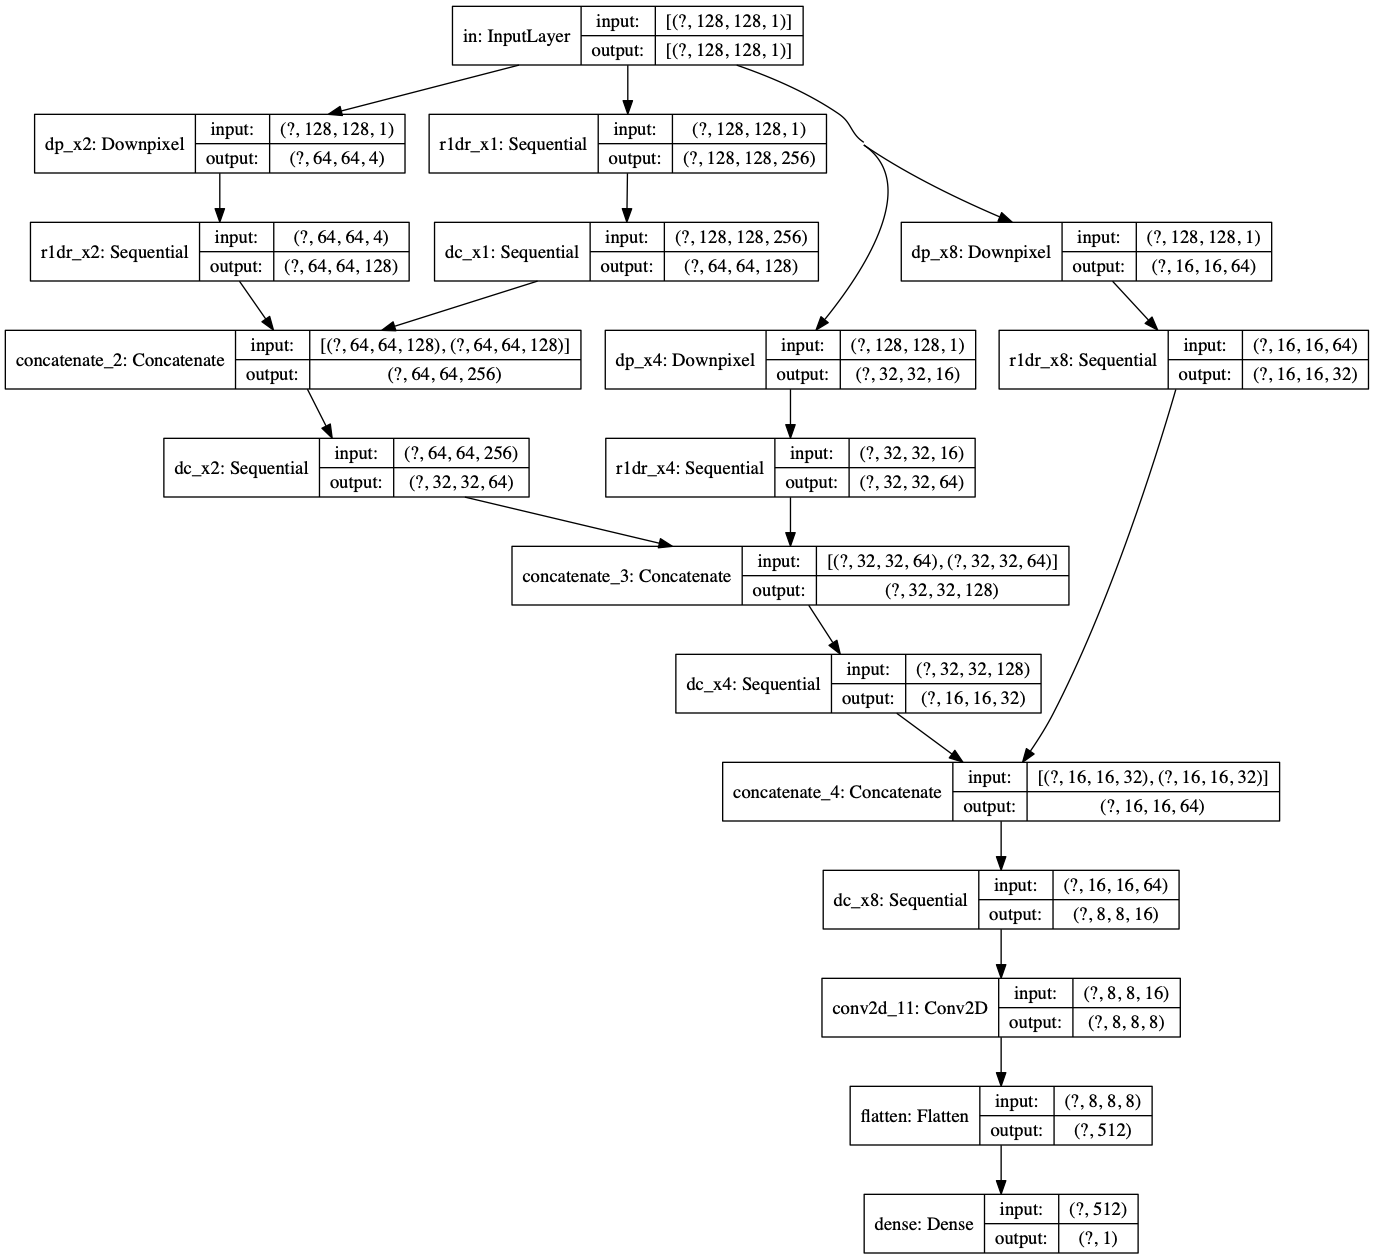
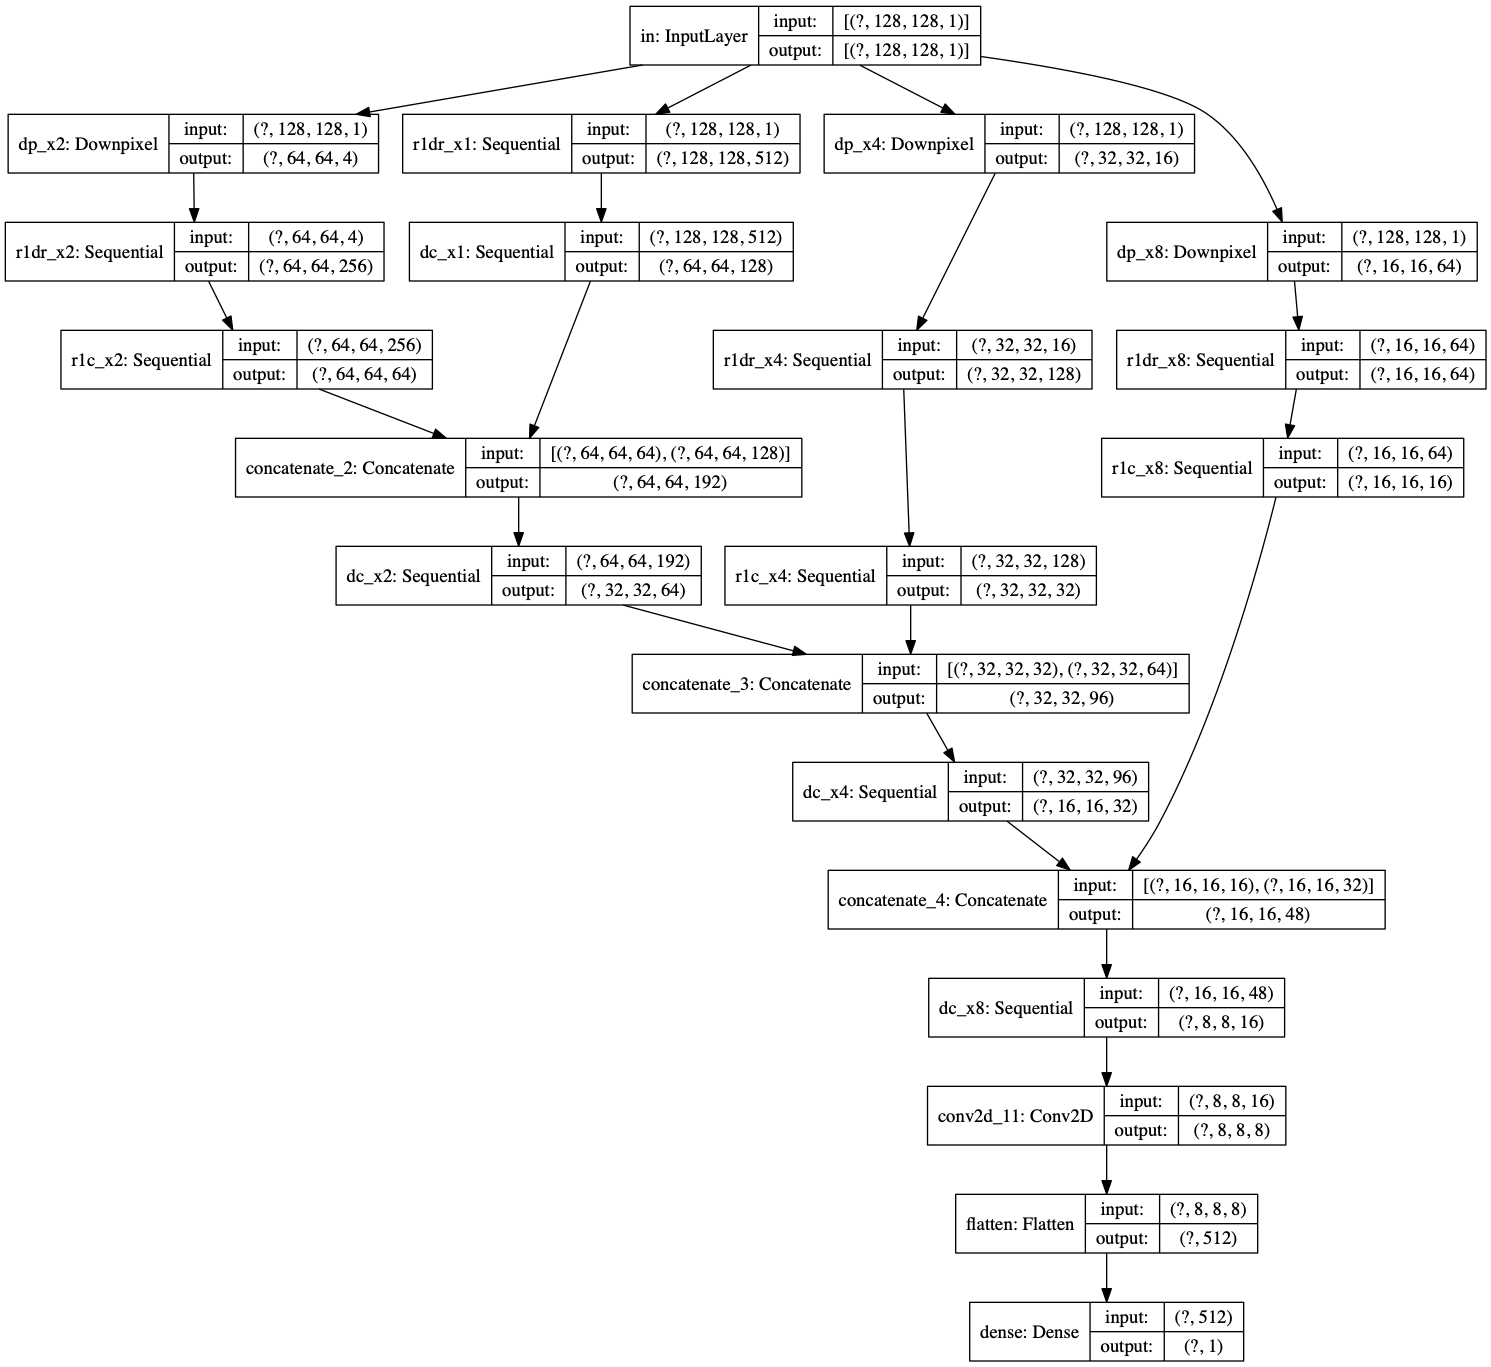
gen: combine low-loss, dis add conv, train epoch

Changed region(s): [[0.0, 0.0, 1.0, 1.0]]

diff --git a/model.py b/model.py
@@ -355,35 +355,41 @@ def make_discriminator_model(len_high_size=128, scale=4):
     len_x8 = int(len_high_size/(scale*2))
     inp = tf.keras.layers.Input(shape=(len_high_size, len_high_size, 1), name='in', dtype=tf.float32)
 
-    b_r1dr = block_rank1_decompose_reconstruct(len_size=len_x1, filters_decompose=256, name='r1dr_x1')
+    b_r1dr = block_rank1_decompose_reconstruct(len_size=len_x1, filters_decompose=512, name='r1dr_x1')
     r1dr_x1 = b_r1dr(inp)
     b_dc = block_down_convolution(filters=128, name='dc_x1')
     dc_x1 = b_dc(r1dr_x1)
 
     ratio=2
     dp_x2 = Downpixel(r=ratio, name='dp_x2')(inp)
-    b_r1dr = block_rank1_decompose_reconstruct(len_size=len_x2, filters_decompose=128, name='r1dr_x2')
+    b_r1dr = block_rank1_decompose_reconstruct(len_size=len_x2, filters_decompose=256, name='r1dr_x2')
     r1dr_x2 = b_r1dr(dp_x2)
+    b_r1c = block_rank1channels_convolution(filters=64, name='r1c_x2')
+    r1c_x2 = b_r1c(r1dr_x2)
 
-    concat_x1_x2 = tf.keras.layers.Concatenate()([r1dr_x2, dc_x1])
+    concat_x1_x2 = tf.keras.layers.Concatenate()([r1c_x2, dc_x1])
     b_dc = block_down_convolution(filters=64, name='dc_x2')
     dc_x2 = b_dc(concat_x1_x2)
 
     ratio=4
     dp_x4 = Downpixel(r=ratio, name='dp_x4')(inp)
-    b_r1dr = block_rank1_decompose_reconstruct(len_size=len_x4, filters_decompose=64, name='r1dr_x4')
+    b_r1dr = block_rank1_decompose_reconstruct(len_size=len_x4, filters_decompose=128, name='r1dr_x4')
     r1dr_x4 = b_r1dr(dp_x4)
+    b_r1c = block_rank1channels_convolution(filters=32, name='r1c_x4')
+    r1c_x4 = b_r1c(r1dr_x4)
 
-    concat_x2_x4 = tf.keras.layers.Concatenate()([r1dr_x4, dc_x2])
+    concat_x2_x4 = tf.keras.layers.Concatenate()([r1c_x4, dc_x2])
     b_dc = block_down_convolution(filters=32, name='dc_x4')
     dc_x4 = b_dc(concat_x2_x4)
 
     ratio=8
     dp_x8 = Downpixel(r=ratio, name='dp_x8')(inp)
-    b_r1dr = block_rank1_decompose_reconstruct(len_size=len_x8, filters_decompose=32, name='r1dr_x8')
+    b_r1dr = block_rank1_decompose_reconstruct(len_size=len_x8, filters_decompose=64, name='r1dr_x8')
     r1dr_x8 = b_r1dr(dp_x8)
-
-    concat_x4_x8 = tf.keras.layers.Concatenate()([r1dr_x8, dc_x4])
+    b_r1c = block_rank1channels_convolution(filters=16, name='r1c_x8')
+    r1c_x8 = b_r1c(r1dr_x8)
+    
+    concat_x4_x8 = tf.keras.layers.Concatenate()([r1c_x8, dc_x4])
     b_dc = block_down_convolution(filters=16, name='dc_x8')
     dc_x8 = b_dc(concat_x4_x8)
 
@@ -423,7 +429,7 @@ def generator_mse_loss(y_pred, y_true):  # , m_filter):
 @tf.function
 def train_step_generator(Gen, Dis, imgl, imgr, loss_filter, loss_weights, opts, train_logs):
     #[out_low_x2, out_low_x4, out_low_x8, high_out, low_x2, low_x4, low_x8]
-    with tf.GradientTape() as x2, tf.GradientTape() as x4, tf.GradientTape() as x8, tf.GradientTape() as gen_tape_high:
+    with tf.GradientTape() as x, tf.GradientTape() as gen_tape_high:
         fake_hic = Gen(imgl, training=True)
 
         fake_hic_l_x2 = fake_hic[0]
@@ -450,7 +456,7 @@ def train_step_generator(Gen, Dis, imgl, imgr, loss_filter, loss_weights, opts, 
         fake_hic_l_x8 = tf.multiply(fake_hic_l_x8, mfilter_low)
         imgl_x8_filter = tf.multiply(imgl_x8, mfilter_low)
 
-        gen_low_v = []
+        '''gen_low_v = []
         gen_low_v_x2 = []
         gen_low_v_x2 += Gen.get_layer('dsd_x2').trainable_variables
         gen_low_v_x2 += Gen.get_layer('r1e_x2').trainable_variables
@@ -488,7 +494,32 @@ def train_step_generator(Gen, Dis, imgl, imgr, loss_filter, loss_weights, opts, 
         gen_loss_low_ssim = (gen_loss_low_ssim_x8 +
                              gen_loss_low_ssim_x4 + gen_loss_low_ssim_x2)/3
         gen_loss_low_mse = (gen_loss_low_mse_x8 +
-                            gen_loss_low_mse_x4 + gen_loss_low_mse_x2)/3
+                            gen_loss_low_mse_x4 + gen_loss_low_mse_x2)/3'''
+
+        gen_low_v = []
+        gen_low_v += Gen.get_layer('dsd_x2').trainable_variables
+        gen_low_v += Gen.get_layer('r1e_x2').trainable_variables
+        gen_low_v += Gen.get_layer('dsd_x4').trainable_variables
+        gen_low_v += Gen.get_layer('r1e_x4').trainable_variables
+        gen_low_v += Gen.get_layer('dsd_x8').trainable_variables
+        gen_low_v += Gen.get_layer('r1e_x8').trainable_variables
+        
+        gen_loss_low_ssim_x2 = generator_ssim_loss(fake_hic_l_x2, imgl_x2_filter)
+        gen_loss_low_mse_x2 = generator_mse_loss(fake_hic_l_x2, imgl_x2_filter)
+
+        gen_loss_low_ssim_x4 = generator_ssim_loss(fake_hic_l_x4, imgl_x4_filter)
+        gen_loss_low_mse_x4 = generator_mse_loss(fake_hic_l_x4, imgl_x4_filter)
+
+        gen_loss_low_ssim_x8 = generator_ssim_loss(fake_hic_l_x8, imgl_x8_filter)
+        gen_loss_low_mse_x8 = generator_mse_loss(fake_hic_l_x8, imgl_x8_filter)
+
+        gen_loss_low_ssim = (gen_loss_low_ssim_x8*1.0 + gen_loss_low_ssim_x4*2.0 + gen_loss_low_ssim_x2*4.0)/7.0
+        gen_loss_low_mse = (gen_loss_low_mse_x8*1.0 + gen_loss_low_mse_x4*2.0 + gen_loss_low_mse_x2*4.0)/7.0
+
+        gen_loss_low = gen_loss_low_ssim + gen_loss_low_mse
+        gradients_of_generator_low = x.gradient(gen_loss_low, gen_low_v)
+        opts[0].apply_gradients(zip(gradients_of_generator_low, gen_low_v))
+
         train_logs[0](gen_loss_low_ssim)
         train_logs[1](gen_loss_low_mse)
 
@@ -518,7 +549,7 @@ def train_step_generator(Gen, Dis, imgl, imgr, loss_filter, loss_weights, opts, 
             gen_loss_high_2*loss_weights[2]
         gradients_of_generator_high = gen_tape_high.gradient(
             gen_loss_high, gen_high_v)
-        opts[3].apply_gradients(zip(gradients_of_generator_high, gen_high_v))
+        opts[1].apply_gradients(zip(gradients_of_generator_high, gen_high_v))
         train_logs[2](gen_loss_high_0)
         train_logs[3](gen_loss_high_1)
         train_logs[4](gen_loss_high_2)
@@ -555,14 +586,14 @@ def tracegraph(x, model):
 
 def train(gen, dis, dataset, epochs, len_high_size, scale, test_dataset=None):
 
-    generator_optimizer_x2 = tf.keras.optimizers.Adam()
+    '''generator_optimizer_x2 = tf.keras.optimizers.Adam()
     generator_optimizer_x4 = tf.keras.optimizers.Adam()
-    generator_optimizer_x8 = tf.keras.optimizers.Adam()
+    generator_optimizer_x8 = tf.keras.optimizers.Adam()'''
+    generator_optimizer_low = tf.keras.optimizers.Adam()
     generator_optimizer_high = tf.keras.optimizers.Adam()
     discriminator_optimizer = tf.keras.optimizers.Adagrad()
     # for generator#, discriminator_optimizer]
-    opts = [generator_optimizer_x2, generator_optimizer_x4,
-            generator_optimizer_x8, generator_optimizer_high]
+    opts = [generator_optimizer_low, generator_optimizer_high]
     generator_log_ssim_low = tf.keras.metrics.Mean(
         'train_gen_low_ssim_loss', dtype=tf.float32)
     generator_log_mse_low = tf.keras.metrics.Mean(
@@ -651,7 +682,7 @@ def train(gen, dis, dataset, epochs, len_high_size, scale, test_dataset=None):
                 loss_weights = [0.1, 10.0, 10.0]
 
             # if(stage1_gen or (epoch==0 or epoch>=1200 and epoch%100<40)):
-            if(epoch < 200 or epoch%20 <= 10):
+            if(epoch < 400 or epoch%40 <= 15):
                 train_step_generator(gen, dis,
                                      tf.dtypes.cast(low_m, tf.float32), tf.dtypes.cast(
                                          high_m, tf.float32),
@@ -659,7 +690,7 @@ def train(gen, dis, dataset, epochs, len_high_size, scale, test_dataset=None):
                                          loss_filter_low_x8, loss_filter_high], loss_weights,
                                      opts, logs)
             # if(stage1_dis or (epoch>=1200 and epoch%100>=40)):
-            if(epoch < 200 or epoch%20>=10):
+            if(epoch < 400 or epoch%40>=15):
                 #Gen, Dis, imgl, imgr, loss_filter, opts, train_logs
                 train_step_discriminator(Gen=gen, Dis=dis, imgl =tf.dtypes.cast(low_m, tf.float32), 
                                     imgr = tf.dtypes.cast(high_m, tf.float32),

diff --git a/train.py b/train.py
@@ -101,12 +101,11 @@ tf.keras.utils.plot_model(Gen, to_file='G.png', show_shapes=True)
 print(Dis.summary())
 tf.keras.utils.plot_model(Dis, to_file='D.png', show_shapes=True)
 current_time = datetime.datetime.now().strftime("%Y%m%d-%H%M%S")
-#Gen.save('./saved_model/'+current_time+'/gen_model') 
-#Dis.save('./saved_model/'+current_time+'dis_model')
+
 model.train(Gen, Dis, train_data, EPOCHS, len_size, scale, test_data)
 
 Gen.save('./saved_model/'+current_time+'/gen_model') 
-Dis.save('./saved_model/'+current_time+'dis_model')
+Dis.save('./saved_model/'+current_time+'/dis_model')
 
 '''anim_file = 'gan.gif'
 with imageio.get_writer(anim_file, mode='I') as writer:
